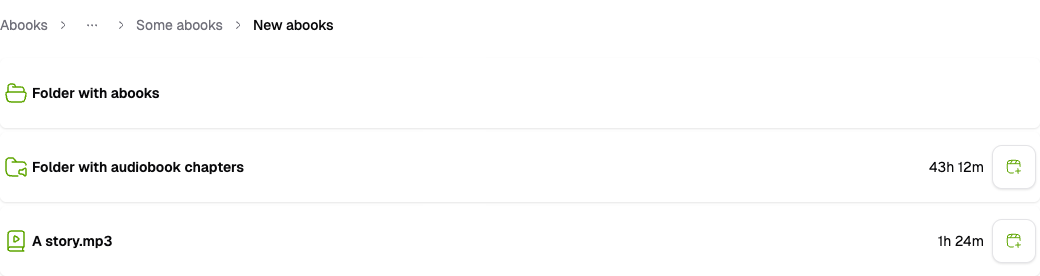
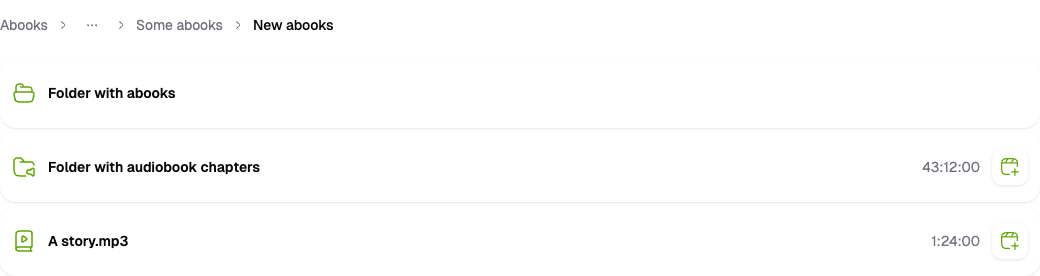
fix(frontend): update border-radius and padding for FileManagerItem and EpisodeRow

diff --git a/frontend/src/components/mpod/episode-row.tsx b/frontend/src/components/mpod/episode-row.tsx
@@ -189,9 +189,9 @@ export const EpisodeRow = memo(function EpisodeRow({
                 : "h-[116px] grid-rows-[40px_44px]"
             )
           : isDesktop
-            ? "flex h-[70px] items-center gap-3 rounded-[4px] px-3"
+            ? "flex h-[70px] items-center gap-3 rounded-[16px] px-3"
             : cn(
-                "relative grid h-[116px] grid-cols-[minmax(0,1fr)_auto] grid-rows-[40px_44px] gap-x-2 gap-y-2 overflow-hidden rounded-[16px] py-3 pr-3 md:flex md:h-[70px] md:items-center md:gap-3 md:rounded-[4px] md:px-3 md:py-0",
+                "relative grid h-[116px] grid-cols-[minmax(0,1fr)_auto] grid-rows-[40px_44px] gap-x-2 gap-y-2 overflow-hidden rounded-[16px] py-3 pr-3 md:flex md:h-[70px] md:items-center md:gap-3 md:rounded-[16px] md:px-3 md:py-0",
                 showDragHandle ? "pl-8" : "pl-3"
               ),
         draggable && "cursor-grab",

diff --git a/frontend/src/components/mpod/filemanager-item.tsx b/frontend/src/components/mpod/filemanager-item.tsx
@@ -89,8 +89,7 @@ export function FileManagerItem({
     <div
       data-slot="fm-item"
       className={cn(
-        "flex h-[70px] w-full items-center gap-3 bg-card text-foreground shadow-xs transition-colors hover:bg-accent/40",
-        isMobile ? "rounded-[2px] px-1" : "rounded-[2px] px-1 md:rounded-[2px] md:px-3",
+        "flex h-[70px] w-full items-center gap-3 bg-card text-foreground shadow-xs transition-colors hover:bg-accent/40 rounded-[16px] px-3",
         onOpen && "cursor-pointer",
         className
       )}

diff --git a/frontend/src/components/mpod/filemanager-item.test.tsx b/frontend/src/components/mpod/filemanager-item.test.tsx
@@ -58,7 +58,7 @@ describe("FileManagerItem", () => {
       />
     );
     const item = document.querySelector('[data-slot="fm-item"]');
-    expect(item).toHaveClass("h-[70px]", "rounded-[2px]", "px-1");
+    expect(item).toHaveClass("h-[70px]", "rounded-[16px]", "px-3");
     expect(screen.getByText("Mobile Book")).toHaveClass("line-clamp-2");
     expect(screen.getByText("2h 30m")).toHaveClass("w-20");
     expect(screen.getByRole("button", { name: "Add to playlist" })).toHaveClass(
